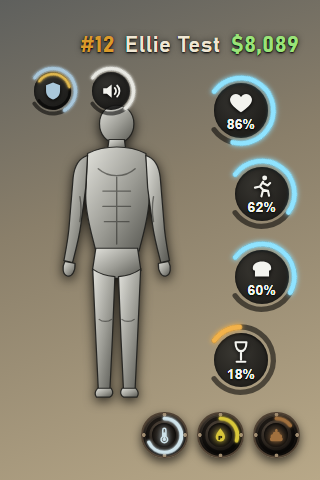
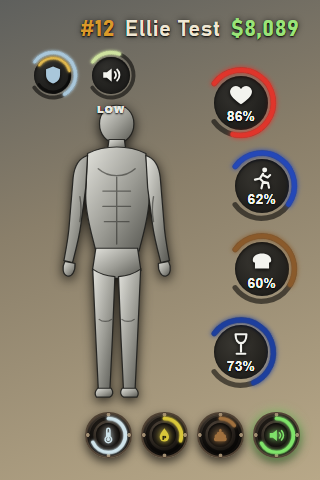
HUD: noise on the top speaker ring (noise panel off), voice speaker in the small row, ring colours

diff --git a/resources/[wasteland]/wasteland_survival/html/hud.js b/resources/[wasteland]/wasteland_survival/html/hud.js
@@ -1,9 +1,10 @@
 // wasteland_survival :: html/hud.js
 // Survival HUD (runs inside wasteland_ui, no input focus). Two styles:
 //   body     - (default) a body figure (red while bleeding, green tint while
-//              infected) with rings in an arc: health, stamina, food, drink;
-//              small rings top left for armour (outer ring the vest, inner
-//              ring the plates) and voice (range, lit while talking); small
+//              infected) with rings in an arc: health (red), stamina (dark
+//              blue), food (brown), drink (deep blue); small rings top left
+//              for armour (outer ring the vest, inner ring the plates) and
+//              noise (how far zombies hear you, lit green while talking); small
 //              rings for temperature, pee and poop; bleeding / infection tags
 //   classic  - health (and armour) as bars on a riveted plate, food, drink,
 //              temperature, pee and poop as round iron dials
@@ -17,6 +18,7 @@
 // with the HUD), and a stamina bar at the bottom middle of the screen that
 // only shows while stamina is being used.
 // Data: { mode, health, armor (vest %, only while one is worn), plates (%), stamina, voice = { talking, level, levels, on },
+//         noise = { radius (m), source, count, safe } (wasteland_zombies; nil = unknown),
 //         portrait = { sig, shots? = { sig, with, without } } (the character picture, client/portrait.lua),
 //         editing, layout = { x, y, vertical, size, style },
 //         info = { id, name, cash },
@@ -106,6 +108,15 @@
         return { visible: fill < 100, fill: fill, low: fill <= 20 };
     }
 
+    // How loud (the zombies' hearing range, metres): the same bands as the noise panel.
+    function noiseLevel(r) {
+        if (r <= 6) return { key: 'quiet', word: 'QUIET' };
+        if (r <= 12) return { key: 'low', word: 'LOW' };
+        if (r <= 25) return { key: 'noticeable', word: 'NOTICEABLE' };
+        if (r <= 50) return { key: 'loud', word: 'LOUD' };
+        return { key: 'deafening', word: 'DEAFENING' };
+    }
+
     // The body style: rings in the arc, the small rings, the armour and voice
     // rings, and how the body figure looks. Rings: [{ key, fill, level, text }].
     function bodyView(data) {
@@ -126,14 +137,24 @@
         const levels = v.levels || 3;
         const voice = { on: v.on !== false, talking: v.talking === true,
             fill: typeof v.level === 'number' ? clamp(v.level / levels * 100) : (v.on === false ? 0 : 66) };
+        const n = data.noise;
+        const noise = n && typeof n.radius === 'number'
+            ? Object.assign(noiseLevel(n.radius), { known: true, talking: false,
+                fill: Math.max(4, Math.round(Math.min(1, Math.sqrt(Math.max(0, n.radius) / 120)) * 100)),
+                feet: Math.round(n.radius * 3.28084 / 5) * 5, count: n.count || 0 })
+            : { known: false, key: 'quiet', word: '', talking: false, fill: 0, feet: 0, count: 0 };
         const immersive = data.mode === 'immersive';
         if (immersive) {
             big = big.filter((i) => i.level !== 'ok');
         }
+        // the speaker in the small row: voice range, lit while talking ("when it matters": only while talking)
+        if (voice.on && (!immersive || voice.talking)) {
+            small.push({ key: 'voice', label: 'Voice', fill: voice.fill, level: 'ok', talking: voice.talking });
+        }
         return {
             big: big,
-            small: immersive ? small.filter((i) => i.level !== 'ok') : small,
-            armor: armor, voice: voice,
+            small: immersive ? small.filter((i) => i.level !== 'ok' || i.key === 'voice') : small,
+            armor: armor, voice: voice, noise: noise,
             body: { bleeding: Math.min(3, s.bleeding || 0), infected: (s.infection || 0) > 0,
                 hurt: typeof data.health === 'number' && data.health <= LOW },
         };
@@ -198,7 +219,7 @@
     }
 
     if (typeof module === 'object' && module.exports) {
-        module.exports = { cutout: cutout, bodyView: bodyView, icons: icons, badges: badges, infoLine: infoLine, staminaBar: staminaBar, normalizeLayout: normalizeLayout, toPixels: toPixels, toFractions: toFractions };
+        module.exports = { noiseLevel: noiseLevel, cutout: cutout, bodyView: bodyView, icons: icons, badges: badges, infoLine: infoLine, staminaBar: staminaBar, normalizeLayout: normalizeLayout, toPixels: toPixels, toFractions: toFractions };
         return;
     }
 
@@ -231,6 +252,7 @@
         stamina: { stroke: 'M13 8l-3 4.5 3 3-1.5 6M10 12.5l-4.5 1M13.2 9.5l4 2 2.3-2.2M13 15.5l4.5 1 1 4.5', circle: [14.5, 4.6, 2.3] },
         bread: { fill: 'M3.5 11.2C3.5 7.2 7.4 5 12 5s8.5 2.2 8.5 6.2c0 1.3-.8 2.1-2 2.2V19H5.5v-5.6c-1.2-.1-2-.9-2-2.2z' },
         glass: { stroke: 'M7 3h10c0 5.2-2.2 8.2-5 8.2S7 8.2 7 3zM12 11.2V19M8 21h8' },
+        voice: { fill: 'M3.5 9h4l5.2-4.2v14.4L7.5 15h-4z', stroke: 'M16 8.6a4.8 4.8 0 0 1 0 6.8M18.6 6a8.4 8.4 0 0 1 0 12' },
         speaker: { fill: 'M3.5 9h4l5.2-4.2v14.4L7.5 15h-4z', stroke: 'M16 8.6a4.8 4.8 0 0 1 0 6.8M18.6 6a8.4 8.4 0 0 1 0 12' },
         poop: { fill: 'M12 3.5c2 .8 2.2 2.8 1.2 3.8 2.8 0 3.8 1.8 3 3 2.8.2 3.8 2.8 2.8 4.5 2 .9 1.4 4.7-1 4.7H6c-2.4 0-3-3.8-1-4.7-1-1.7 0-4.3 2.8-4.5-.8-1.2.2-3 3-3-1-1-.6-3 1.2-3.8z' },
     };
@@ -258,7 +280,7 @@
             svg('circle', { cx: '24', cy: '24', r: '19', class: 'wlh-ring__fill',
                 'stroke-dasharray': RING.toFixed(2), 'stroke-dashoffset': (RING * (1 - icon.fill / 100)).toFixed(2) }),
         ]);
-        const el = h('div', { class: 'wlh-dial wlh-dial--' + icon.key + (icon.hot ? ' is-hot' : '') + ' is-' + icon.level,
+        const el = h('div', { class: 'wlh-dial wlh-dial--' + icon.key + (icon.hot ? ' is-hot' : '') + (icon.talking ? ' is-talking' : '') + ' is-' + icon.level,
             attrs: { title: icon.label + ' ' + icon.fill + '%' } },
             ring, h('div', { class: 'wlh-dial__face' }, glyph(icon.key)));
         return el;
@@ -393,11 +415,15 @@
             h('div', { class: 'wlh-mini__face' }, glyph('armor')));
     }
 
-    function voiceRing(v) {
-        return h('div', { class: 'wlh-mini wlh-mini--voice' + (v.talking ? ' is-talking' : '') + (v.on ? '' : ' is-none'),
-            attrs: { title: v.on ? 'Voice' : 'No voice' } },
-            svg('svg', { viewBox: '0 0 60 60', class: 'wlh-gauge__ring' }, arcRing(26, 4.5, v.fill)),
-            h('div', { class: 'wlh-mini__face' }, glyph('speaker')));
+    function noiseRing(n) {
+        const title = n.known ? 'Noise: ' + n.word.toLowerCase() + ', heard within ~' + n.feet + ' ft'
+            + (n.count ? ' (' + n.count + ' in earshot)' : '') : 'Noise';
+        return h('div', { class: 'wlh-noise' },
+            h('div', { class: 'wlh-mini wlh-mini--noise is-' + n.key + (n.talking ? ' is-talking' : '') + (n.known ? '' : ' is-none'),
+                attrs: { title: title } },
+                svg('svg', { viewBox: '0 0 60 60', class: 'wlh-gauge__ring' }, arcRing(26, 4.5, n.fill)),
+                h('div', { class: 'wlh-mini__face' }, glyph('speaker'))),
+            n.known ? h('div', { class: 'wlh-noise__word is-' + n.key, text: n.word }) : null);
     }
 
     function renderBody(shown) {
@@ -405,7 +431,7 @@
         if (!v) return;
         const wrap = h('div', { class: 'wlh-bodyhud' });
         const left = h('div', { class: 'wlh-bodyhud__left' },
-            h('div', { class: 'wlh-bodyhud__minis' }, armorRing(v.armor), voiceRing(v.voice)),
+            h('div', { class: 'wlh-bodyhud__minis' }, armorRing(v.armor), noiseRing(v.noise)),
             (() => { const pic = portraitFor(shown.portrait); return pic ? characterPicture(pic, v.body) : bodyFigure(v.body); })());
         const right = h('div', { class: 'wlh-bodyhud__arc' });
         v.big.forEach((r, i) => {
@@ -667,9 +693,9 @@
         '.wlh-stamina.is-low .wlh-stamina__fill { background: linear-gradient(180deg, #f0b44a, #b06e14); }',
         // ---- body style
         '.wlh-bodyhud { display: flex; align-items: center; gap: calc(4px * var(--wlh-scale)); }',
-        '.wlh-bodyhud__left { position: relative; width: calc(132px * var(--wlh-scale)); height: calc(262px * var(--wlh-scale)); }',
+        '.wlh-bodyhud__left { position: relative; width: calc(132px * var(--wlh-scale)); height: calc(274px * var(--wlh-scale)); }',
         '.wlh-bodyhud__minis { position: absolute; left: 0; top: 0; display: flex; gap: calc(5px * var(--wlh-scale)); z-index: 1; }',
-        '.wlh-body { position: absolute; left: calc(10px * var(--wlh-scale)); top: calc(26px * var(--wlh-scale)); width: calc(118px * var(--wlh-scale));',
+        '.wlh-body { position: absolute; left: calc(10px * var(--wlh-scale)); top: calc(38px * var(--wlh-scale)); width: calc(118px * var(--wlh-scale));',
         '  height: calc(236px * var(--wlh-scale)); filter: drop-shadow(0 3px 6px rgba(0,0,0,0.8)); overflow: visible; }',
         '.wlh-body__skin path { stroke: rgba(30,30,28,0.9); stroke-width: 0.8; }',
         '.wlh-body__lines { fill: none; stroke: rgba(40,40,36,0.55); stroke-width: 0.9; stroke-linecap: round; }',
@@ -680,7 +706,7 @@
         '.wlh-body.is-bleeding-3 .wlh-body__blood path { animation-duration: 0.7s; }',
         '.wlh-body.is-infected .wlh-body__infection path { opacity: 0.28; }',
         '@keyframes wlhBleed { 0%, 100% { opacity: 0.15; } 50% { opacity: 0.6; } }',
-        '.wlh-portrait { position: absolute; left: calc(6px * var(--wlh-scale)); top: calc(30px * var(--wlh-scale)); width: calc(124px * var(--wlh-scale));',
+        '.wlh-portrait { position: absolute; left: calc(6px * var(--wlh-scale)); top: calc(42px * var(--wlh-scale)); width: calc(124px * var(--wlh-scale));',
         '  height: calc(230px * var(--wlh-scale)); }',
         '.wlh-portrait__img, .wlh-portrait__tint { position: absolute; inset: 0; width: 100%; height: 100%; object-fit: contain; object-position: center bottom; }',
         '.wlh-portrait__img { filter: drop-shadow(0 3px 6px rgba(0,0,0,0.85)); }',
@@ -708,13 +734,21 @@
         '.wlh-mini__face .wlh-glyph { width: calc(17px * var(--wlh-scale)); height: calc(17px * var(--wlh-scale)); filter: drop-shadow(0 1px 2px #000); }',
         '.wlh-gauge__val { margin-top: calc(1px * var(--wlh-scale)); font-size: calc(11px * var(--wlh-scale)); font-weight: 700; color: #f3f3ee;',
         '  text-shadow: 0 1px 2px #000; font-family: Arial, sans-serif; }',
+        // each stat its own colour; low turns amber, critical red
+        '.wlh-gauge--health { --c1: #e0352b; } .wlh-gauge--stamina { --c1: #2448b8; } .wlh-gauge--food { --c1: #8a5a2b; } .wlh-gauge--drink { --c1: #1d3f9e; }',
         '.wlh-gauge.is-low { --c1: #f2b24a; } .wlh-gauge.is-critical { --c1: #ff4a3d; animation: wlhPulse 0.9s ease-in-out infinite; }',
+        '.wlh-gauge--health.is-critical { --c1: #ff2a1a; }',
         '.wlh-mini--armor { --c1: #a9c7da; } .wlh-mini--armor .wlh-arc__fill.is-plates { stroke: #e0b84f; filter: drop-shadow(0 0 2px #e0b84f); }',
         '.wlh-mini--armor .wlh-mini__face { color: #a9c7da; }',
         '.wlh-mini.is-none { opacity: 0.45; }',
-        '.wlh-mini--voice { --c1: #e8e8e2; } .wlh-mini--voice.is-talking { --c1: #7fe36a; }',
-        '.wlh-mini--voice.is-talking .wlh-mini__face { color: #7fe36a; } .wlh-mini--voice.is-talking::before { box-shadow: 0 0 10px rgba(127,227,106,0.6), inset 0 1px 3px rgba(0,0,0,0.8); }',
+        '.wlh-noise { display: flex; flex-direction: column; align-items: center; gap: 1px; }',
+        '.wlh-mini--noise { --c1: #e8e8e2; } .wlh-mini--noise.is-low { --c1: #cfe3a0; } .wlh-mini--noise.is-noticeable { --c1: #f0d24a; }',
+        '.wlh-mini--noise.is-loud { --c1: #f08a2c; } .wlh-mini--noise.is-deafening { --c1: #ff3b2e; }',
+        '.wlh-mini--noise.is-talking .wlh-mini__face { color: #7fe36a; } .wlh-mini--noise.is-talking::before { box-shadow: 0 0 10px rgba(127,227,106,0.6), inset 0 1px 3px rgba(0,0,0,0.8); }',
+        '.wlh-noise__word { font-size: calc(8px * var(--wlh-scale)); font-weight: 800; letter-spacing: 0.08em; color: #e8e8e2; text-shadow: 0 1px 2px #000; font-family: Arial, sans-serif; }',
+        '.wlh-noise__word.is-noticeable { color: #f0d24a; } .wlh-noise__word.is-loud { color: #f08a2c; } .wlh-noise__word.is-deafening { color: #ff3b2e; }',
         '.wlh-bodyhud__small { justify-content: flex-end; }',
+        '.wlh-dial--voice { --c: #e8e8e2; } .wlh-dial--voice.is-talking { --c: #7fe36a; box-shadow: 0 0 12px rgba(127,227,106,0.7), 0 4px 10px rgba(0,0,0,0.65); }',
         '.wlh-bodyhud__small .wlh-dial { width: calc(36px * var(--wlh-scale)); height: calc(36px * var(--wlh-scale)); }',
         '.wlh-tb { position: absolute; top: 3vh; left: 50%; transform: translateX(-50%); display: flex; flex-wrap: wrap; justify-content: center;',
         '  gap: 10px 16px; max-width: 92vw; padding: 10px 14px; background: var(--wl-bg); border: 1px solid var(--wl-border);',

diff --git a/tests/js/survival.test.js b/tests/js/survival.test.js
@@ -104,7 +104,8 @@ test('body style: the arc of rings, armour with plates, voice and the body state
     assert.strictEqual(v.big[0].text, '80%');
     assert.deepStrictEqual(v.armor, { worn: true, fill: 60, plates: 40, level: 'ok' });
     assert.strictEqual(v.voice.talking, true); assert.strictEqual(v.voice.fill, 67);
-    assert.deepStrictEqual(v.small.map((i) => i.key), ['temp', 'pee', 'poop']);
+    assert.deepStrictEqual(v.small.map((i) => i.key), ['temp', 'pee', 'poop', 'voice']);
+    assert.strictEqual(v.small[3].talking, true);
     assert.deepStrictEqual(v.body, { bleeding: 2, infected: true, hurt: false });
 });
 
@@ -129,4 +130,23 @@ test('character picture: only the pixels that differ between the two shots are k
     assert.strictEqual(r.data[(2 * w + 3) * 4 + 3], 255);     // character: solid
     assert.strictEqual(r.data[(2 * w + 3) * 4], 250);         // with its own colour
     assert.strictEqual(hud.cutout(b, b, w, h).box, null);    // nothing differs: no picture
+});
+
+test('noise ring: the zombies\' hearing range as a word, a fill and feet', () => {
+    const v = hud.bodyView({ mode: 'compact', health: 90, noise: { radius: 30, source: 'running', count: 2 }, voice: { talking: true }, stats: {} });
+    assert.strictEqual(v.noise.key, 'loud'); assert.strictEqual(v.noise.word, 'LOUD');
+    assert.strictEqual(v.noise.feet, 100); assert.strictEqual(v.noise.count, 2);
+    assert.ok(v.noise.fill > 40 && v.noise.fill < 60);
+    assert.strictEqual(hud.noiseLevel(4).key, 'quiet'); assert.strictEqual(hud.noiseLevel(80).key, 'deafening');
+    const none = hud.bodyView({ mode: 'compact', health: 90, stats: {} });
+    assert.strictEqual(none.noise.known, false);
+});
+
+test('voice speaker in the small row: only with voice chat; "when it matters" only while talking', () => {
+    const quiet = hud.bodyView({ mode: 'immersive', health: 90, voice: { on: true, talking: false, level: 1, levels: 3 }, stats: {} });
+    assert.strictEqual(quiet.small.some((i) => i.key === 'voice'), false);
+    const talking = hud.bodyView({ mode: 'immersive', health: 90, voice: { on: true, talking: true, level: 3, levels: 3 }, stats: {} });
+    assert.strictEqual(talking.small.find((i) => i.key === 'voice').fill, 100);
+    const off = hud.bodyView({ mode: 'compact', health: 90, voice: { on: false }, stats: {} });
+    assert.strictEqual(off.small.some((i) => i.key === 'voice'), false);
 });

diff --git a/CHANGELOG.md b/CHANGELOG.md
@@ -1,5 +1,11 @@
 # Changelog
 
+## HUD: noise ring, voice speaker, new ring colours
+
+- The separate noise panel is gone: the small speaker ring at the top of the HUD now shows the noise, how far zombies can hear you (fill and colour from white "QUIET" to red "DEAFENING", the word under it). /noise still brings the old panel back if wanted.
+- Voice chat: a small speaker ring in the bottom row next to pee and poop shows your voice range and glows green while you talk (only with voice chat running; "When it matters" mode shows it only while talking).
+- Ring colours: health red, stamina dark blue, food brown, water deep blue (low still turns amber, critical red).
+
 ## HUD character picture: /hudphoto and clear reasons
 
 - `/hudphoto` takes the picture of your character at once, or says on screen why it cannot (screenshot-basic not running, in a vehicle, moving, fighting, a menu open, ...). Failures of the automatic picture are shown the same way and printed in F8, instead of the HUD silently keeping the figure.
